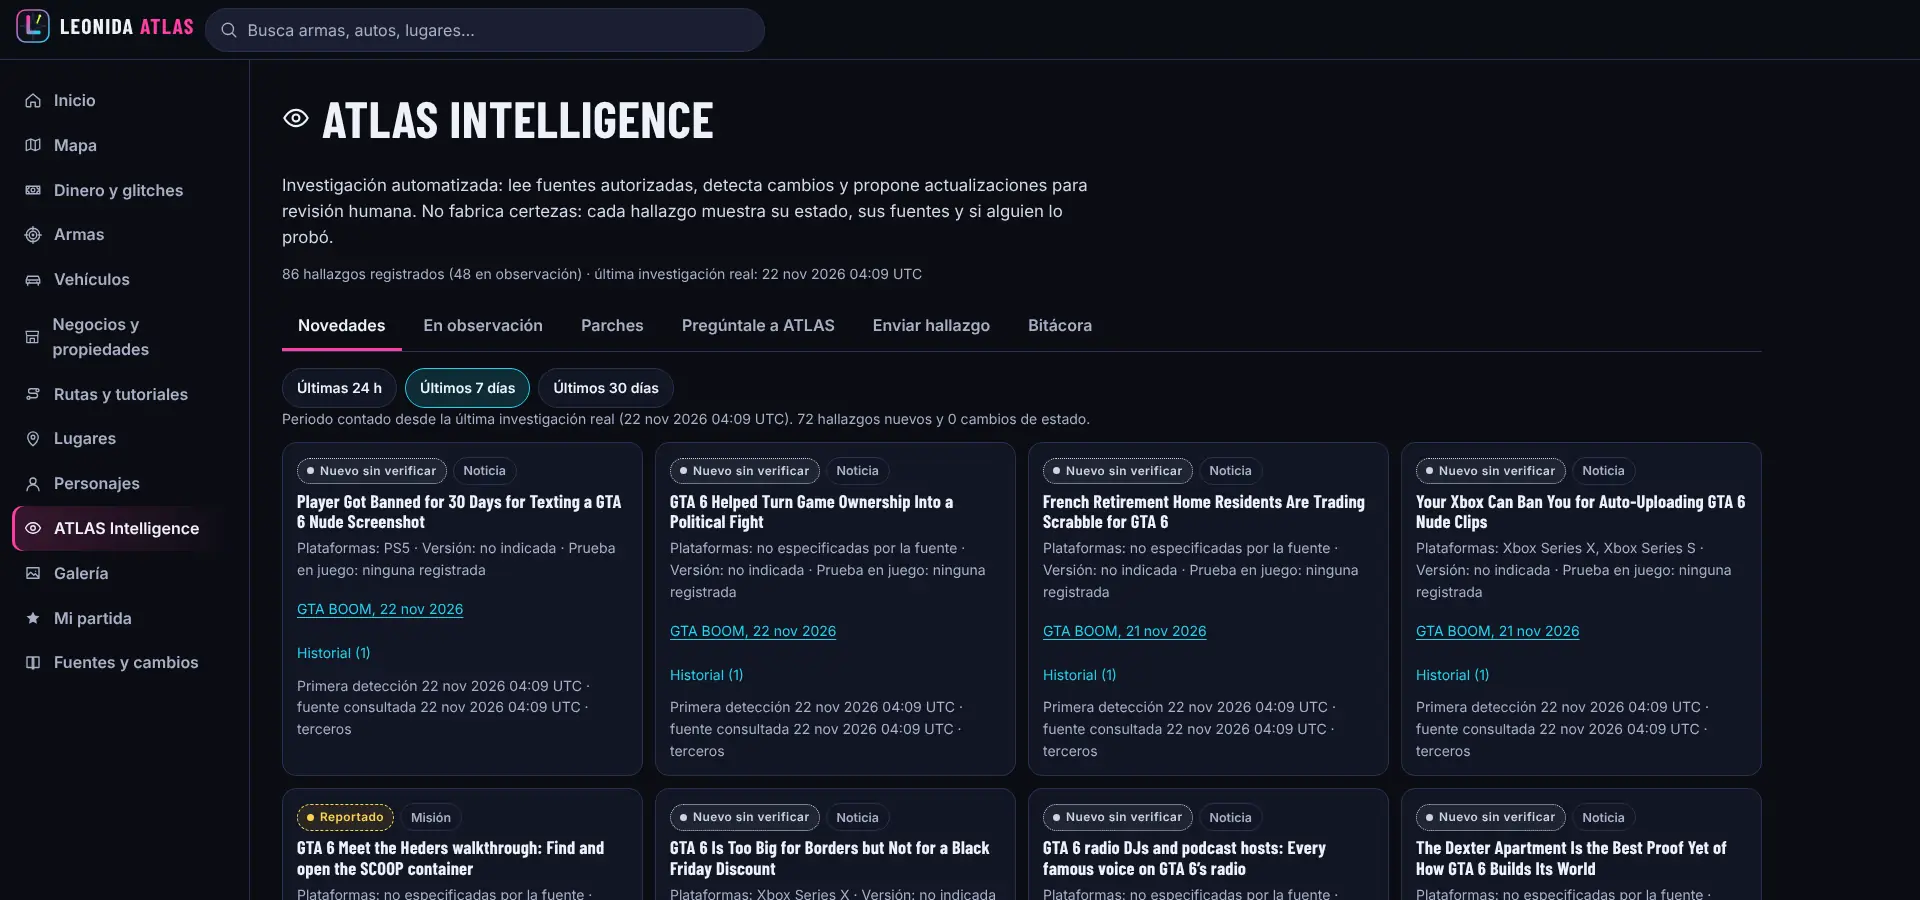
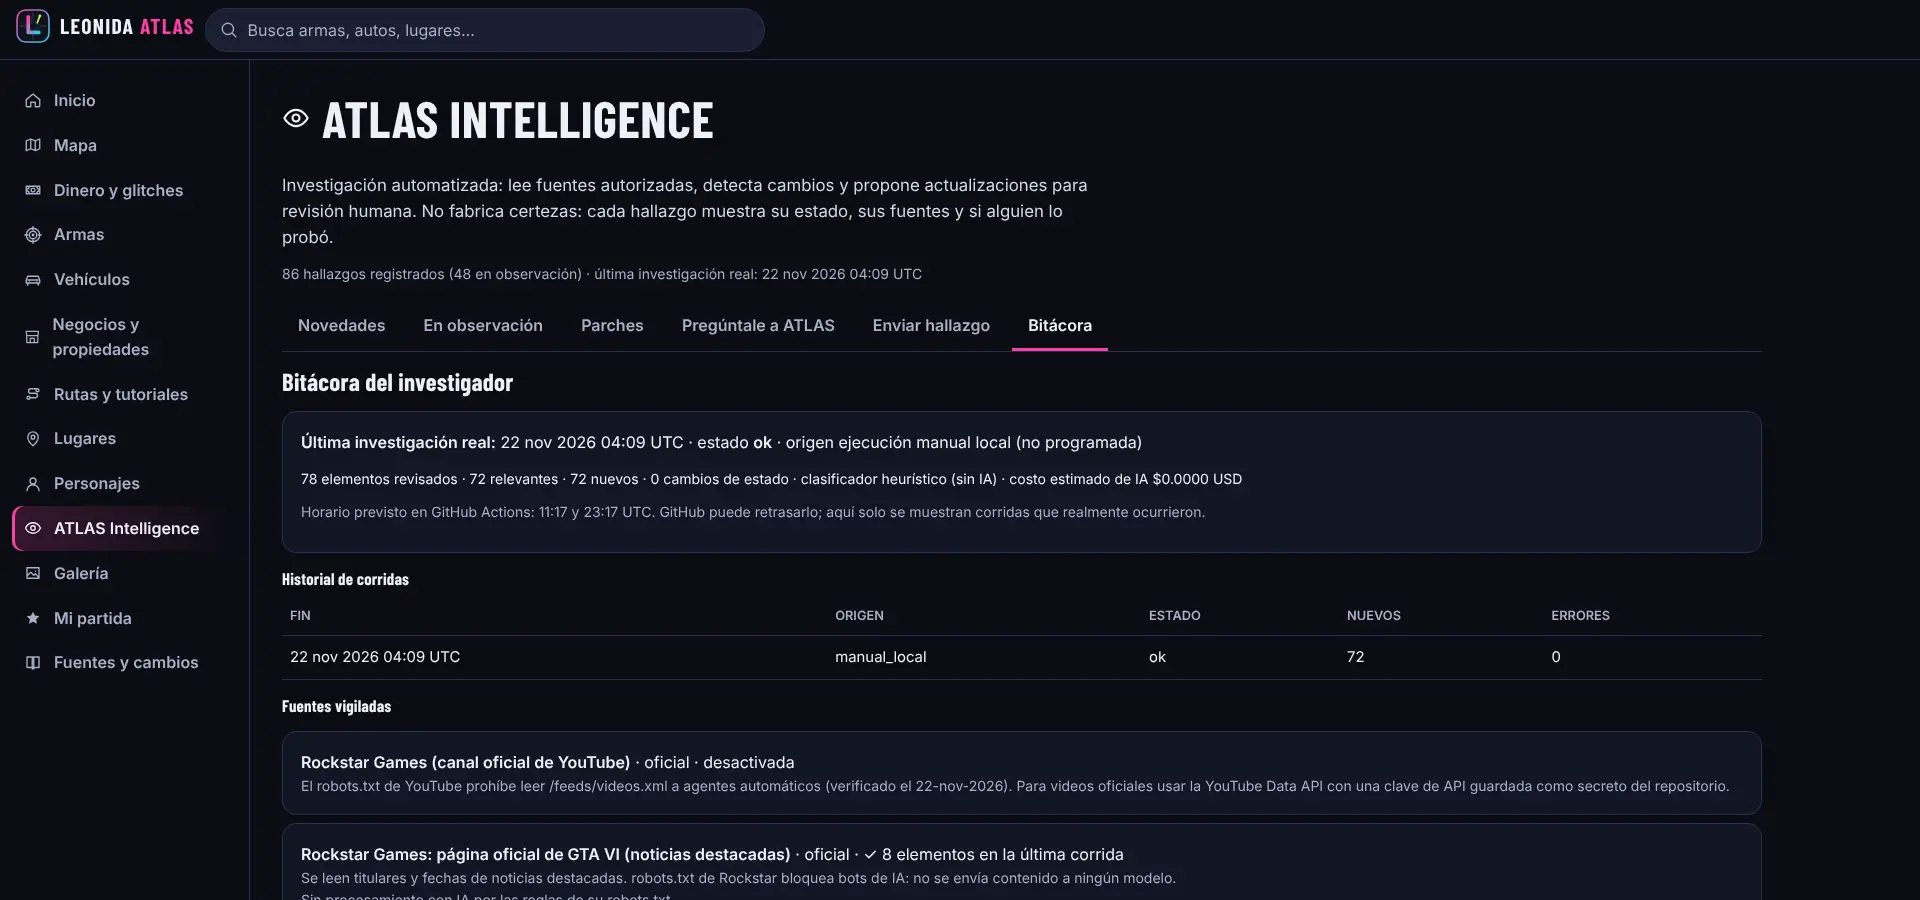
CI: corregir la causa de la violación de CSP en WebKit sin filtrar errores
Causa exacta (playwright-core 1.63, screenshotter.ts): en WebKit,
shouldToggleStyleSheetToSyncAnimations() es true y cada page.screenshot() inserta
<style>body {}</style> en el <head>; la CSP estricta del sitio la bloquea, como debe.

- Se elimina el filtro de consola del commit anterior: ningún error se oculta.
- Las capturas de QA se toman después de verificar la consola, en un paso aparte.
- Nuevo e2e/csp-webkit.spec.ts (Chromium y WebKit real):
  · la app no inserta ninguna <style> al cargar ni al interactuar;
  · la CSP bloquea estilos inline inyectados y lo reporta;
  · en WebKit, la captura de Playwright es exactamente la que inserta «body {}».
- La CSP no cambia (style-src 'self', sin unsafe-inline).

Claude-Session: https://claude.ai/code/session_01LhexujubWWqKrg1nMkMH5G

diff --git a/e2e/csp-webkit.spec.ts b/e2e/csp-webkit.spec.ts
@@ -1,0 +1,64 @@
+import { expect, test } from '@playwright/test';
+import { watchConsole } from './helpers';
+
+// Diagnóstico de la CSP: identifica quién inserta hojas de estilo inline y comprueba que la CSP las bloquea.
+// Corre en un Chromium y en el WebKit real de CI.
+test.describe('CSP de estilos', () => {
+  test.skip(() => !['chromium-1280', 'iphone-14-webkit'].includes(test.info().project.name), 'un Chromium y el WebKit real');
+
+  test.beforeEach(async ({ page }) => {
+    // Registra cada <style> que se añade al documento, con su contenido y el momento.
+    await page.addInitScript(() => {
+      const w = window as unknown as { __styles: { text: string; at: number }[] };
+      w.__styles = [];
+      new MutationObserver((muts) => {
+        for (const m of muts)
+          m.addedNodes.forEach((n) => {
+            if (n instanceof HTMLStyleElement) w.__styles.push({ text: n.textContent ?? '', at: performance.now() });
+          });
+      }).observe(document, { childList: true, subtree: true });
+    });
+  });
+
+  test('la app no inserta ninguna hoja de estilos inline al cargar ni al interactuar', async ({ page }) => {
+    const errors = watchConsole(page);
+    for (const path of ['/', '/mapa', '/intel?seccion=bitacora', '/armas/duke-556']) {
+      await page.goto(path);
+      await page.waitForLoadState('networkidle');
+    }
+    await page.goto('/mapa');
+    await page.getByRole('button', { name: 'Acercar' }).click();
+    await page.getByRole('button', { name: /^Ambrosia\. Precisión/ }).focus();
+    await page.keyboard.press('Enter');
+    await expect(page.getByTestId('pin-panel')).toContainText('Ambrosia');
+    expect(await page.evaluate(() => (window as unknown as { __styles: unknown[] }).__styles)).toEqual([]);
+    expect(errors).toEqual([]);
+  });
+
+  test('la CSP bloquea estilos inline inyectados y lo reporta en consola', async ({ page }) => {
+    const errors = watchConsole(page);
+    await page.goto('/');
+    const outline = await page.evaluate(() => {
+      const s = document.createElement('style');
+      s.textContent = 'body { outline: 7px solid rgb(1, 2, 3); }';
+      document.head.appendChild(s);
+      return getComputedStyle(document.body).outlineWidth;
+    });
+    expect(outline).not.toBe('7px');
+    await expect.poll(() => errors.some((e) => /Content Security Policy|style-src/i.test(e))).toBe(true);
+  });
+
+  test('en WebKit, la captura de pantalla de Playwright es la que inserta <style>body {}</style>', async ({ page, browserName }) => {
+    test.skip(browserName !== 'webkit', 'la inyección solo ocurre en WebKit (shouldToggleStyleSheetToSyncAnimations)');
+    const errors = watchConsole(page);
+    await page.goto('/');
+    await page.waitForLoadState('networkidle');
+    expect(await page.evaluate(() => (window as unknown as { __styles: unknown[] }).__styles)).toEqual([]);
+    expect(errors).toEqual([]);
+    await page.screenshot({ caret: 'initial' });
+    const styles = await page.evaluate(() => (window as unknown as { __styles: { text: string }[] }).__styles.map((s) => s.text));
+    expect(styles).toEqual(['body {}']);
+    await expect.poll(() => errors.length).toBeGreaterThan(0);
+    expect(errors.every((e) => /Content Security Policy|style-src/i.test(e))).toBe(true);
+  });
+});

diff --git a/e2e/helpers.ts b/e2e/helpers.ts
@@ -1,24 +1,10 @@
 import { expect, type Page, type TestInfo } from '@playwright/test';
 import { mkdirSync } from 'node:fs';
 
-/**
- * Mensaje exacto de WebKit cuando la CSP bloquea una hoja de estilos inline. Playwright 1.63 inserta
- * `<style>body {}</style>` en cada captura de pantalla en WebKit (screenshotter.ts →
- * inPagePrepareForScreenshots, porque shouldToggleStyleSheetToSyncAnimations() es true en WebKit).
- * Esa hoja la añade la herramienta de pruebas, no la app, y la CSP estricta (style-src 'self') la
- * bloquea como debe. Solo se descarta ese mensaje y solo mientras dura una captura en WebKit.
- */
-const WEBKIT_SCREENSHOT_CSP = "Refused to apply a stylesheet because its hash, its nonce, or 'unsafe-inline' does not appear in the style-src directive of the Content Security Policy.";
-
-const capturing = new WeakMap<Page, boolean>();
-
 export function watchConsole(page: Page) {
   const errors: string[] = [];
-  const isWebKit = page.context().browser()?.browserType().name() === 'webkit';
   page.on('console', (m) => {
-    if (m.type() !== 'error') return;
-    if (isWebKit && capturing.get(page) && m.text() === WEBKIT_SCREENSHOT_CSP) return;
-    errors.push(m.text());
+    if (m.type() === 'error') errors.push(m.text());
   });
   page.on('pageerror', (e) => errors.push(e.message));
   page.on('requestfailed', (r) => errors.push(`requestfailed ${r.url()}`));
@@ -33,17 +19,16 @@ export async function noHorizontalOverflow(page: Page) {
   expect(overflow, 'desbordamiento horizontal en px').toBeLessThanOrEqual(1);
 }
 
+/**
+ * Captura para el reporte de QA. Úsala DESPUÉS de verificar los errores de consola: en WebKit,
+ * Playwright 1.63 inserta `<style>body {}</style>` en cada captura (screenshotter.ts →
+ * inPagePrepareForScreenshots, porque shouldToggleStyleSheetToSyncAnimations() es true) y la CSP
+ * estricta del sitio la bloquea, como debe. Ver e2e/csp-webkit.spec.ts. No se filtra ningún mensaje.
+ */
 export async function shot(page: Page, info: TestInfo, name: string) {
   const dir = `qa/screenshots/${info.project.name}`;
   mkdirSync(dir, { recursive: true });
-  capturing.set(page, true);
-  try {
-    await page.screenshot({ path: `${dir}/${name}.png`, caret: 'initial', animations: 'allow' });
-    // los mensajes de consola llegan de forma asíncrona: margen breve antes de cerrar la ventana
-    await page.waitForTimeout(50);
-  } finally {
-    capturing.set(page, false);
-  }
+  await page.screenshot({ path: `${dir}/${name}.png`, caret: 'initial', animations: 'allow' });
 }
 
 export const isMobile = (page: Page) => (page.viewportSize()?.width ?? 1280) < 1024;

diff --git a/e2e/app.spec.ts b/e2e/app.spec.ts
@@ -10,10 +10,11 @@ test.describe('LEONIDA ATLAS', () => {
     await expect(page.getByText('Guía independiente de fans. Sin afiliación con Rockstar Games.')).toBeVisible();
     await expect(page.locator('.hero img')).toHaveCount(0); // la portada es una composición SVG propia
     await noHorizontalOverflow(page);
-    await shot(page, info, '01-inicio');
     await page.evaluate(() => window.scrollTo(0, document.body.scrollHeight));
     await page.waitForLoadState('networkidle');
     expect(errors).toEqual([]);
+    await page.evaluate(() => window.scrollTo(0, 0));
+    await shot(page, info, '01-inicio'); // después de verificar la consola (ver helpers.shot)
   });
 
   test('navegación entre todas las secciones', async ({ page }) => {
@@ -180,7 +181,6 @@ test.describe('LEONIDA ATLAS', () => {
     const panel = page.getByTestId('pin-panel');
     await expect(panel).toContainText('Ambrosia');
     await expect(panel).toContainText('Precisión: región');
-    await shot(page, info, '03-mapa');
     await panel.getByRole('link', { name: /Ambrosia/ }).first().click();
     await expect(page.getByRole('heading', { level: 1 })).toHaveText('Ambrosia');
     await page.getByRole('link', { name: /Ver Ambrosia en el mapa interactivo/ }).click();
@@ -194,6 +194,7 @@ test.describe('LEONIDA ATLAS', () => {
     await page.keyboard.press('+');
     await expect(vp).not.toHaveAttribute('data-scale', '1.00');
     expect(errors).toEqual([]);
+    await shot(page, info, '03-mapa'); // después de verificar la consola (ver helpers.shot)
   });
 
   test('calculadora de dinero con fórmulas y estimación', async ({ page }) => {

diff --git a/e2e/intel.spec.ts b/e2e/intel.spec.ts
@@ -9,12 +9,13 @@ test.describe('ATLAS INTELLIGENCE', () => {
     await expect(page.getByTestId('intel-summary')).toContainText('última investigación real');
     await expect(page.getByTestId('finding').first()).toBeVisible();
     await noHorizontalOverflow(page);
-    await shot(page, info, '06-intel-novedades');
     await page.getByRole('tab', { name: 'Bitácora' }).click();
     await expect(page.getByTestId('last-run')).toContainText('Última investigación real');
     await expect(page.getByText('YouTube Data API (búsqueda de videos recientes)')).toBeVisible();
     await noHorizontalOverflow(page);
     expect(errors).toEqual([]);
+    await page.getByRole('tab', { name: 'Novedades' }).click();
+    await shot(page, info, '06-intel-novedades'); // después de verificar la consola (ver helpers.shot)
   });
 
   test('filtro por plataforma y categoría en observación (móvil)', async ({ page }, info) => {

diff --git a/e2e/integrity.spec.ts b/e2e/integrity.spec.ts
@@ -69,17 +69,3 @@ test.describe('integridad del sitio publicado', () => {
   });
 });
 
-test('la CSP bloquea estilos inline inyectados y el detector de consola los reporta fuera de capturas', async ({ page }) => {
-  test.skip(test.info().project.name !== 'chromium-1280' && test.info().project.name !== 'iphone-14-webkit', 'un Chromium y el WebKit real');
-  const { watchConsole } = await import('./helpers');
-  const errors = watchConsole(page);
-  await page.goto('/');
-  const applied = await page.evaluate(() => {
-    const s = document.createElement('style');
-    s.textContent = 'body { outline: 7px solid rgb(1, 2, 3); }';
-    document.head.appendChild(s);
-    return getComputedStyle(document.body).outlineWidth;
-  });
-  expect(applied).not.toBe('7px'); // la CSP no aplicó el estilo inyectado
-  await expect.poll(() => errors.some((e) => /Content Security Policy|style-src/i.test(e))).toBe(true);
-});
